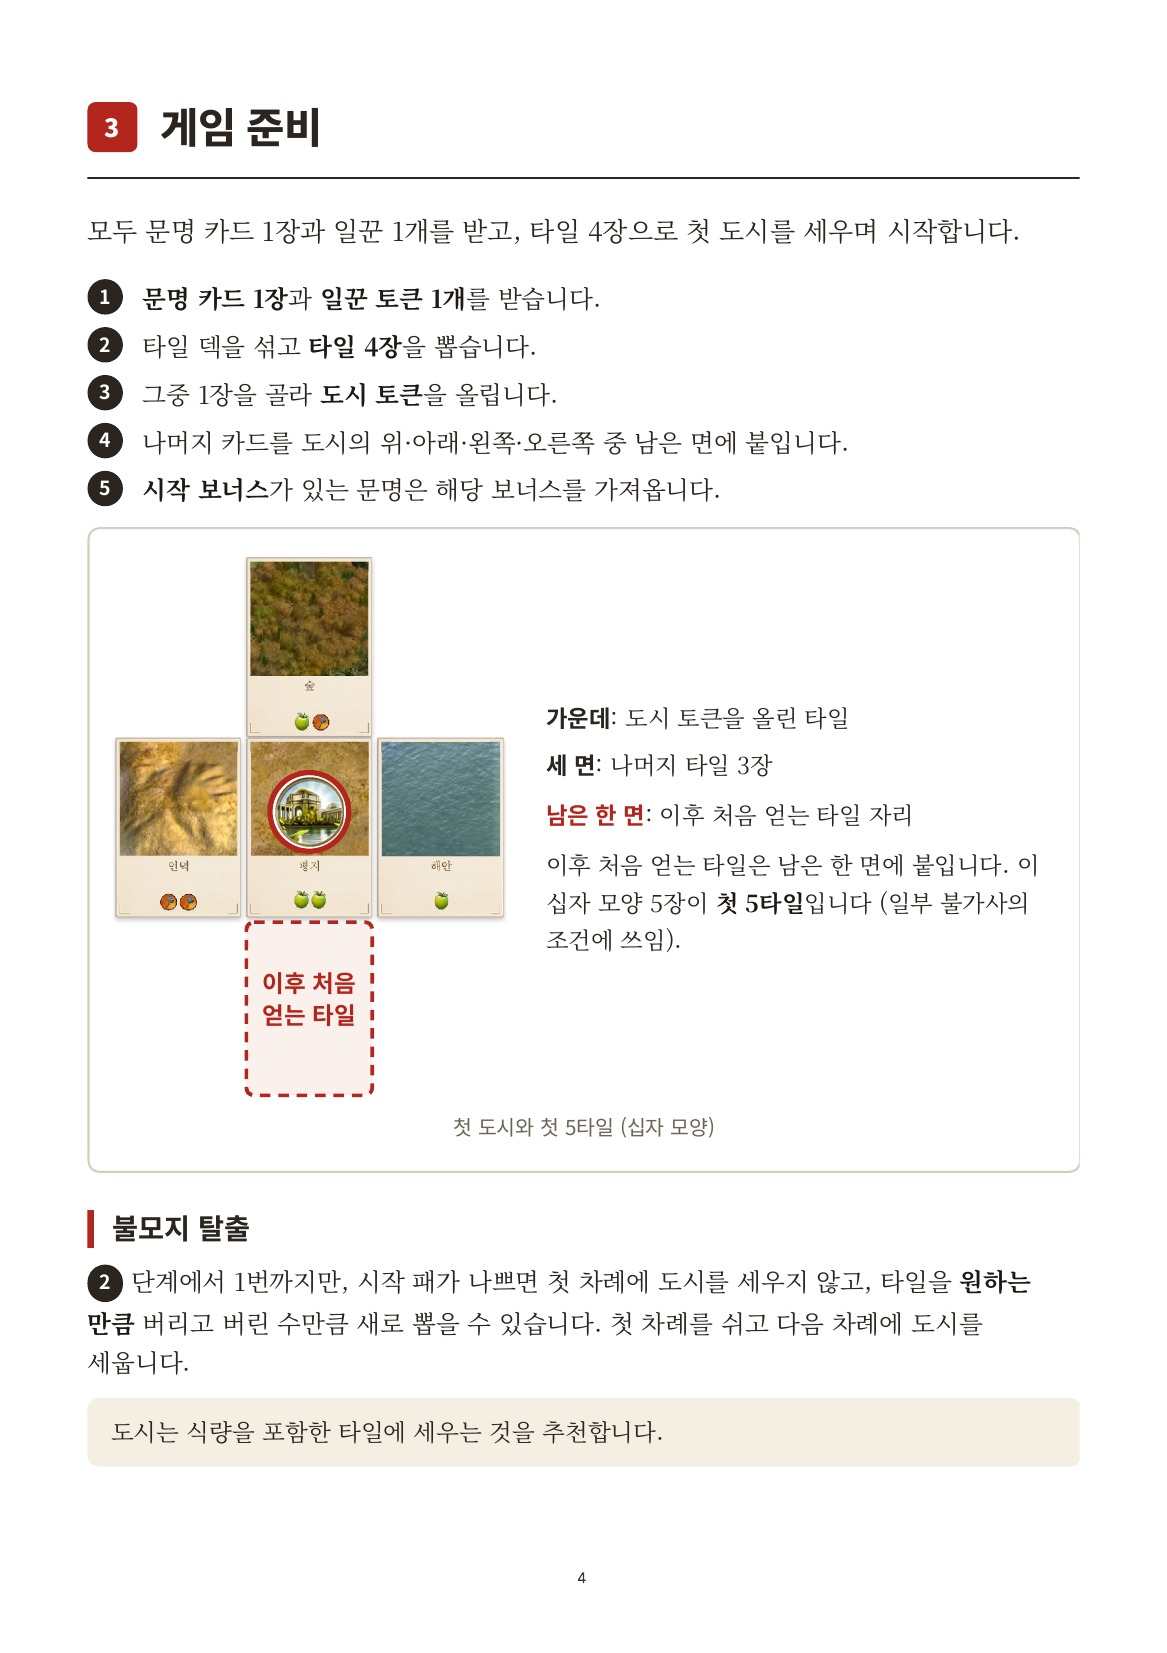
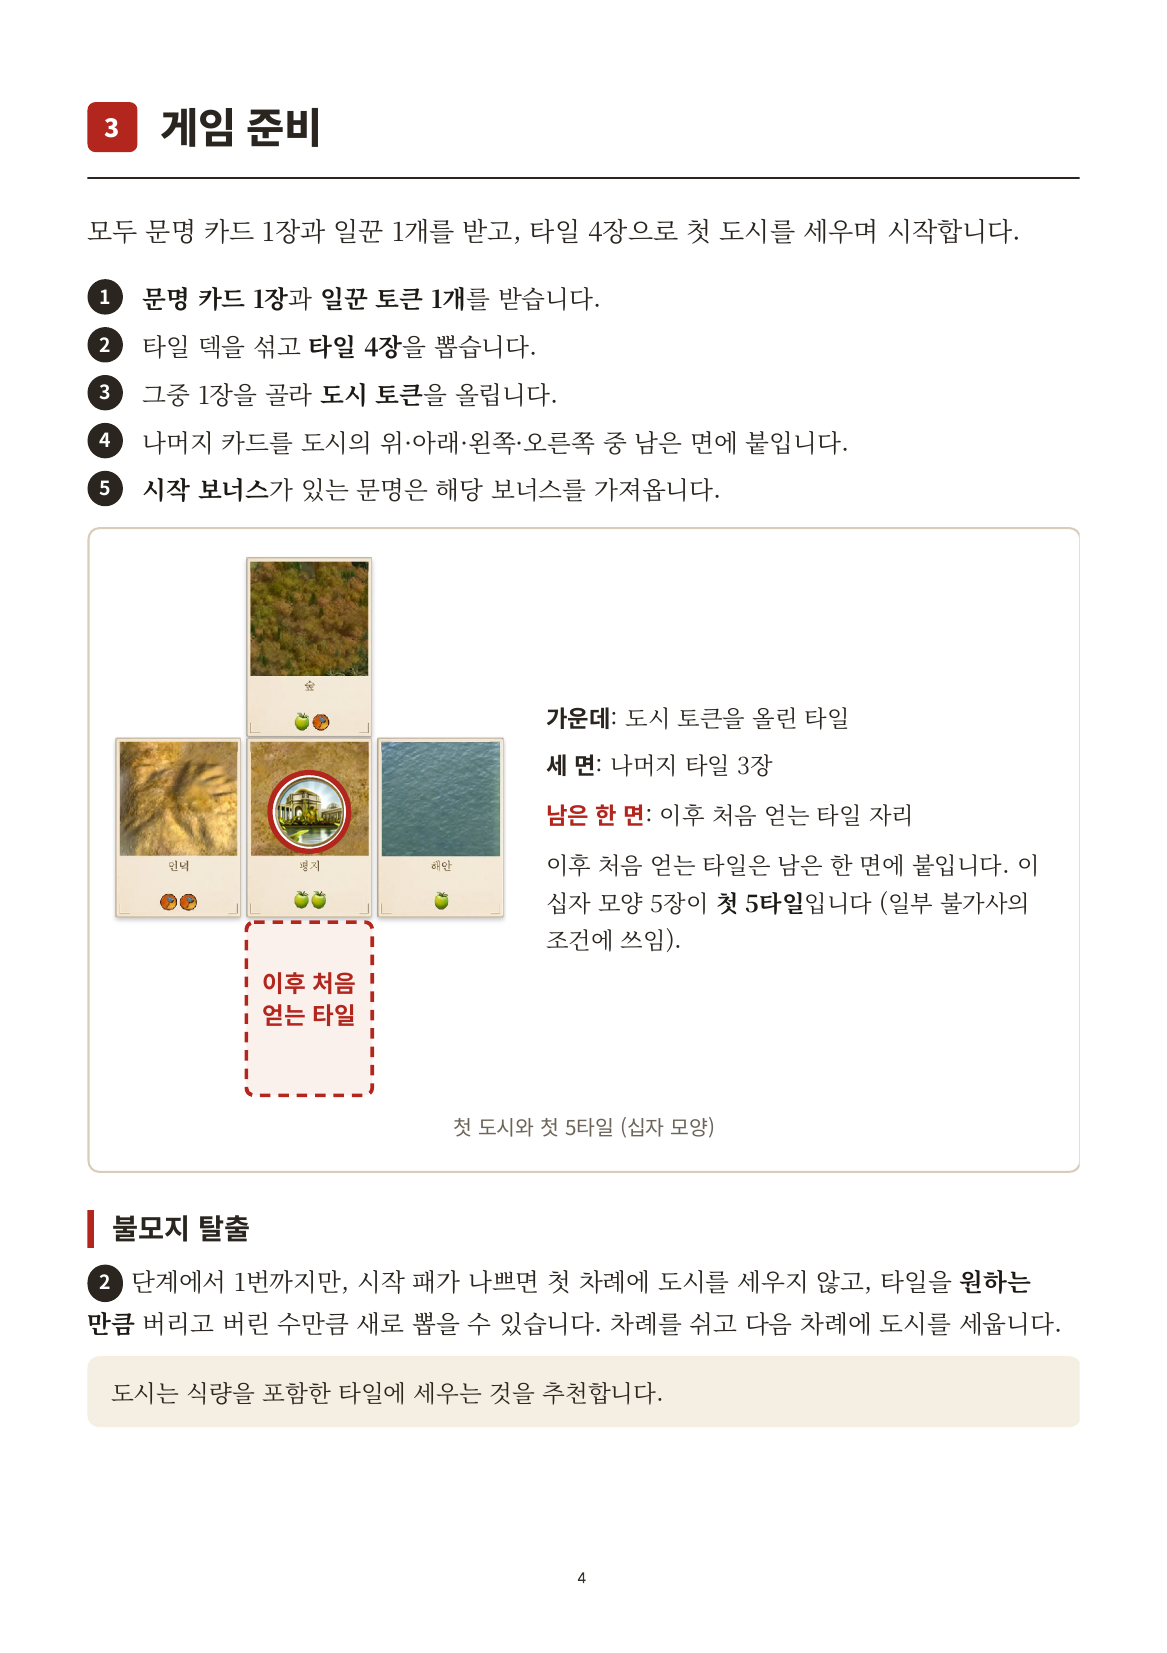
규칙서 불모지 탈출: '차례를 쉬고 다음 차례에 도시를 세웁니다'
Claude-Session: https://claude.ai/code/session_01LEwiRiXRJPjckZxHM1aEbm

Changed region(s): [[0.0617, 0.7713, 0.9254, 0.8947]]

diff --git a/docs/rulebook/source/part1.html b/docs/rulebook/source/part1.html
@@ -111,7 +111,7 @@
   </figure>
 
   <h3>불모지 탈출</h3>
-  <p><span class="stepno">2</span> 단계에서 1번까지만, 시작 패가 나쁘면 첫 차례에 도시를 세우지 않고, 타일을 <b>원하는 만큼</b> 버리고 버린 수만큼 새로 뽑을 수 있습니다. 첫 차례를 쉬고 다음 차례에 도시를 세웁니다.</p>
+  <p><span class="stepno">2</span> 단계에서 1번까지만, 시작 패가 나쁘면 첫 차례에 도시를 세우지 않고, 타일을 <b>원하는 만큼</b> 버리고 버린 수만큼 새로 뽑을 수 있습니다. 차례를 쉬고 다음 차례에 도시를 세웁니다.</p>
   <div class="note">도시는 식량을 포함한 타일에 세우는 것을 추천합니다.</div>
 </section>
 
